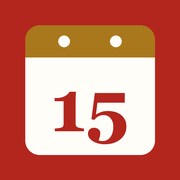
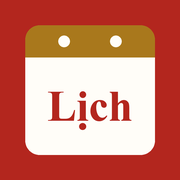
Đổi biểu tượng: chữ Lịch thay cho số 15
Biểu tượng là ảnh cố định nên con số dễ bị hiểu nhầm là ngày hôm nay.

Changed region(s): [[0.25, 0.5, 0.7222, 0.8056]]

diff --git a/scripts/make_icons.py b/scripts/make_icons.py
@@ -2,7 +2,7 @@
 from PIL import Image, ImageDraw, ImageFont
 
 RED, CREAM, GOLD = (179, 38, 30), (255, 253, 248), (169, 120, 28)
-FONT = "C:/Windows/Fonts/georgiab.ttf"
+FONT = "C:/Windows/Fonts/timesbd.ttf"  # có đủ dấu tiếng Việt
 
 
 def icon(size, card_ratio):
@@ -21,8 +21,9 @@ def icon(size, card_ratio):
     for cx in (x0 + w * 0.3, x0 + w * 0.7):  # hai lỗ xé lịch
         rr = w * 0.045
         d.ellipse([cx - rr, y0 + head / 2 - rr, cx + rr, y0 + head / 2 + rr], fill=CREAM)
-    font = ImageFont.truetype(FONT, int(w * 0.56))
-    d.text((s / 2, y0 + head + (w - head) / 2), "15", font=font, fill=RED, anchor="mm")
+    # Dùng chữ thay vì con số: biểu tượng là ảnh cố định, số dễ bị hiểu nhầm là ngày hôm nay.
+    font = ImageFont.truetype(FONT, int(w * 0.34))
+    d.text((s / 2, y0 + head + (w - head) / 2), "Lịch", font=font, fill=RED, anchor="mm")
     return img.resize((size, size), Image.LANCZOS)
 
 
